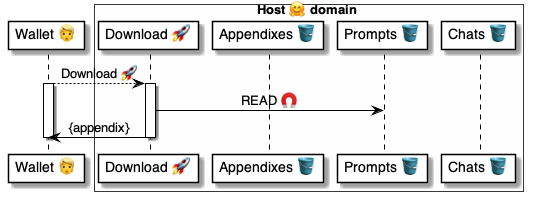
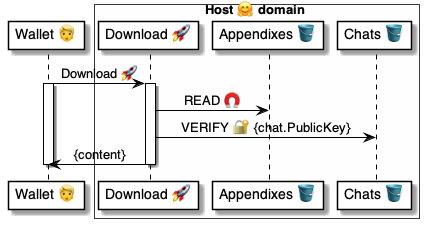
.

diff --git a/4 ⚙ Solution/37 Scripts 📃/📃 Commands ⌘/⌘ for async/REEL 🎣/🎣 REEL ⌘ cmd.md b/4 ⚙ Solution/37 Scripts 📃/📃 Commands ⌘/⌘ for async/REEL 🎣/🎣 REEL ⌘ cmd.md
@@ -7,12 +7,11 @@ then the last 3 will never be executed because REEL will exit the script.
 
 # 🎣 Talker `REEL` command
 
-> Part of [Script 📃](<../../../../35 💬 Chats/Scripts 📃/Script 📃.md>)
+> About
+* Part of [Script 📃](<../../../../35 💬 Chats/Scripts 📃/Script 📃.md>)
+* Used in [`Bound@Vault`](<../../../../41 🎭 Domain Roles/Vaults 🗄/🗄📨 Vault msgs/Bound 🤵🐌🗄/🗄 Bound 🐌 msg.md>)
 
-<!-- TODO: examples -->
-> Used in [`Bound@Vault`](<../../../../41 🎭 Domain Roles/Vaults 🗄/🗄📨 Vault msgs/Bound 🤵🐌🗄/🗄 Bound 🐌 msg.md>)
-
-<br/>
+## FAQ
 
 1. **What's the REEL command?**
 
@@ -47,7 +46,7 @@ then the last 3 will never be executed because REEL will exit the script.
 
     | Input| Purpose |
     |-|-
-    | `$hook`| [Hooks 🪣 item](<../../../../35 💬 Chats/Talkers 😃/😃🪣 Talker tables/😃 Talker.Hooks 🪣 table.md>) saved by the [Command ⌘](<../../../../35 💬 Chats/Scripts 📃/Command ⌘.md>) | -
+    | `$hook`| [Hooks 🪣 item](<../../../../35 💬 Chats/Talkers 😃/😃🪣 Talker tables/😃 Talker.Waits 🪣 table.md>) saved by the [Command ⌘](<../../../../35 💬 Chats/Scripts 📃/Command ⌘.md>) | -
     | `{response}` | [Command ⌘](<../../../../35 💬 Chats/Scripts 📃/Command ⌘.md>) output to a [Holder 🧠](<../../../../35 💬 Chats/Scripts 📃/Holder 🧠.md>)
 
     ---
@@ -79,16 +78,19 @@ then the last 3 will never be executed because REEL will exit the script.
 
 
     ```yaml
-    # Handler
-    - READ >> $hook:
-        Set: Talker.Hooks
+    📃 .REEL:
+    
+    # Read the wait
+    - READ >> $wait:
+        Set: Talker.Waits
         Key: $.Msg.Hook
-    - REEL|$hook
+
+    - REEL|$wait
     ```
 
     | [Command ⌘](<../../../../35 💬 Chats/Scripts 📃/Command ⌘.md>) | Purpose
     |-|-
-    | 🧲 [`READ`](<../../⌘ for datasets 🪣/READ 🧲/🧲 READ ⌘ cmd.md>) | Get the [`Hook` 🪣](<../../../../35 💬 Chats/Talkers 😃/😃🪣 Talker tables/😃 Talker.Hooks 🪣 table.md>) from [`Bind@Broker`](<../../../../20 🧑🦰 UI/Brokers 🤵/🤵📨 Broker msgs/Binds 🔗 Bind 🗄🐌🤵/🤵 Bind 🐌 msg.md>)  
+    | 🧲 [`READ`](<../../⌘ for datasets 🪣/READ 🧲/🧲 READ ⌘ cmd.md>) | Get the [`Hook` 🪣](<../../../../35 💬 Chats/Talkers 😃/😃🪣 Talker tables/😃 Talker.Waits 🪣 table.md>) from [`Bind@Broker`](<../../../../20 🧑🦰 UI/Brokers 🤵/🤵📨 Broker msgs/Binds 🔗 Bind 🗄🐌🤵/🤵 Bind 🐌 msg.md>)  
     
 
     ---

diff --git a/4 ⚙ Solution/41 🎭 Domain Roles/Consumers 💼/💼📨 Consumer msgs/Consume 🗄🐌💼/💼 Consume 📃 handler.md b/4 ⚙ Solution/41 🎭 Domain Roles/Consumers 💼/💼📨 Consumer msgs/Consume 🗄🐌💼/💼 Consume 📃 handler.md
@@ -43,7 +43,7 @@
 Uses||
 |-|-
 | [Commands ⌘](<../../../../35 💬 Chats/Scripts 📃/Command ⌘.md>) | [`ASSERT`](<../../../../37 Scripts 📃/📃 Commands ⌘/⌘ for holders 🧠/ASSERT 🚦/🚦 ASSERT ⌘ cmd.md>) [`READ`](<../../../../37 Scripts 📃/📃 Commands ⌘/⌘ for datasets 🪣/READ 🧲/🧲 READ ⌘ cmd.md>) [`SAVE`](<../../../../37 Scripts 📃/📃 Commands ⌘/⌘ for datasets 🪣/SAVE 💾/💾 SAVE ⌘ cmd.md>) [`VERIFY`](<../../../../37 Scripts 📃/📃 Commands ⌘/⌘ for messages 📨/VERIFY 🔐/🔐 VERIFY ⌘ cmd.md>)
-| [Datasets 🪣](<../../../../30 🧩 Data/Datasets 🪣/🪣 Dataset.md>) | [`TalkerHooks` 🪣 table](<../../../../35 💬 Chats/Talkers 😃/😃🪣 Talker tables/😃 Talker.Hooks 🪣 table.md>)
+| [Datasets 🪣](<../../../../30 🧩 Data/Datasets 🪣/🪣 Dataset.md>) | [`Consumer.Queries`](<../../💼🪣 Consumer tables/Queries 🗄 table/🪣 Queries/💼 Consumer.Queries 🪣 table.md>)
 | [{Functions} 🐍](<../../../../35 💬 Chats/Scripts 📃/Function 🐍.md>) | [`.IsSchema`](<../../../../37 Scripts 📃/📃 Functions 🐍/🐍 System 🔩 functions/IsSchema ⓕ.md>)
 | [Messages 📨](<../../../../30 🧩 Data/Messages 📨/📨 Message/📨 Message.md>) | [`Collect@Vault` 🚀 call](<../../../Vaults 🗄/🗄📨 Vault msgs/Collect 💼🚀🗄/🗄 Collect 🚀 call.md>)
 |

diff --git a/4 ⚙ Solution/41 🎭 Domain Roles/Consumers 💼/💼📨 Consumer msgs/Informed 🤵🐌💼/💼 Informed 🐌 msg.md b/4 ⚙ Solution/41 🎭 Domain Roles/Consumers 💼/💼📨 Consumer msgs/Informed 🤵🐌💼/💼 Informed 🐌 msg.md
@@ -20,7 +20,7 @@ Body:
 |Object|Property|Type|Description | Origin
 |-|-|-|-|-
 | Header    |`From`|text| [Broker 🤵](<../../../../20 🧑🦰 UI/Brokers 🤵/🤵 Broker helper/🤵 Broker 🤲 helper.md>) | [`Inform@`](<../../../../20 🧑🦰 UI/Brokers 🤵/🤵📨 Broker msgs/Share 💼 Inform 💼🐌🤵/🤵 Inform 🐌 msg.md>)
-|           |`To`|text| [Host 🤗](<../../../Hosts 🤗/🤗 Host role/🤗🎭 Host role.md>) | [`Emojied@`](<../../../Hosts 🤗/🤗📨 Host msgs/Emojied 🤵🐌🤗/🤗 Emojied 🐌 msg.md>)
+|           |`To`|text| [Host 🤗](<../../../Hosts 🤗/🤗 Host role/🤗🎭 Host role.md>) | [`Inform@Broker`](<../../../../20 🧑🦰 UI/Brokers 🤵/🤵📨 Broker msgs/Share 💼 Inform 💼🐌🤵/🤵 Inform 🐌 msg.md>)
 |           | `Subject`     | string    | `Informed@Host`
 | Body      | `Hook`      | uuid      | Hook | [`Inform@`](<../../../../20 🧑🦰 UI/Brokers 🤵/🤵📨 Broker msgs/Share 💼 Inform 💼🐌🤵/🤵 Inform 🐌 msg.md>)
 |

diff --git a/4 ⚙ Solution/41 🎭 Domain Roles/Hosts 🤗/🤗📨 Host msgs/Download 🧑🦰🚀🤗/🤗 Download 📃 handler.md b/4 ⚙ Solution/41 🎭 Domain Roles/Hosts 🤗/🤗📨 Host msgs/Download 🧑🦰🚀🤗/🤗 Download 📃 handler.md
@@ -1,0 +1,37 @@
+# 🤗 Download@Host 📃 handler
+
+> About
+* [Script 📃](<../../../../35 💬 Chats/Scripts 📃/Script 📃.md>) that implements the [`Download@Host` 🚀 call](<🤗 Download 🚀 call.md>)
+
+<br/>
+
+## Diagram
+
+![alt text](<🤗 Download ⚙ uml.png>)
+
+<br/>
+
+## Handler
+
+```yaml
+📃 Download@Host:
+
+# Assert the message
+- ASSERT|$.Msg:
+    AllOf: Appendix
+    UUIDs: Appendix
+
+# Read the appendix
+- READ >> $appendix:
+    Set: Host.Appendixes
+    Key: $.Msg.Appendix
+    Assert: # only if the chat is active
+        Chat.State: ACTIVE
+
+# Verify the signature
+- VERIFY|$.Msg:
+    Key: $.Chat.PublicKey
+
+# Return the appendix content
+- RETURN|$appendix:
+```

diff --git a/4 ⚙ Solution/20 🧑🦰 UI/Brokers 🤵/🤵🪣 Broker tables/Forms 📝 table/🪣 Forms/🤵 Broker.Forms 🪣 table.md b/4 ⚙ Solution/20 🧑🦰 UI/Brokers 🤵/🤵🪣 Broker tables/Forms 📝 table/🪣 Forms/🤵 Broker.Forms 🪣 table.md
@@ -46,8 +46,8 @@ The [Item 🛢 Assert](<../../../../../30 🧩 Data/Datasets 🪣/🪣🛢 Itemi
 
 ```yaml
 Assert: 
-    AllOf: Chat, Hook, Consumer, Form
-    UUIDs: Chat, Hook
+    AllOf: Chat, Wait, Consumer, Form
+    UUIDs: Chat, Wait
     Texts: Form, Consumer
     Consumer.IsDomain:
 ```
@@ -67,7 +67,7 @@ From [`Inform@Broker` 📃 handler](<../../../🤵📨 Broker msgs/Share 💼 In
 
 ```yaml
 Chat: <chat-uuid>           # Chat where the inform was created
-Hook: <hook-uuid>           # Consumer hook to notify
+Wait: <wait-uuid>           # Consumer wait to notify
 Name: AnyForm               # Form name being informed about
 Consumer: any-consumer.dom  # Consumer being informed
 ```

diff --git a/4 ⚙ Solution/35 💬 Chats/Talkers 😃/😃🪣 Talker tables/😃 Talker.Holders 🪣 table.md b/4 ⚙ Solution/35 💬 Chats/Talkers 😃/😃🪣 Talker tables/😃 Talker.Holders 🪣 table.md
@@ -18,7 +18,7 @@ Parents:
 
 | Relationship | Table | Contains
 |-|-|-
-| Parent | [`Hooks`](<😃 Talker.Hooks 🪣 table.md>)
+| Parent | [`Hooks`](<😃 Talker.Waits 🪣 table.md>)
 |
 
 ## Example
@@ -32,7 +32,7 @@ Value: {...}
 
 |Property|Type|Details|
 |-|-|-
-|`Hook`| uuid | [`TalkerHooks` 🪣 table](<😃 Talker.Hooks 🪣 table.md>) ID
+|`Hook`| uuid | [`TalkerHooks` 🪣 table](<😃 Talker.Waits 🪣 table.md>) ID
 |`Holder`|text| [Holder 🧠](<../../Scripts 📃/Holder 🧠.md>) name
 |`Schema`|text| [Schema Code 🧩](<../../../30 🧩 Data/Codes 🧩/🧩 Schema Code.md>)
 |`Value` | any | Content of the [Holder 🧠](<../../Scripts 📃/Holder 🧠.md>)

diff --git a/4 ⚙ Solution/35 💬 Chats/Talkers 😃/😃🪣 Talker tables/😃 Talker.Waits 🪣 table.md b/4 ⚙ Solution/35 💬 Chats/Talkers 😃/😃🪣 Talker tables/😃 Talker.Waits 🪣 table.md
@@ -1,7 +1,5 @@
 
-<!-- TODO: -->
-
-# 😃🪝 Talker.Hooks 🪣 table 
+# 😃🪝 Talker.Waits 🪣 table 
 
 > Used in [`Bound@Vault`](<../../../41 🎭 Domain Roles/Vaults 🗄/🗄📨 Vault msgs/Bound 🤵🐌🗄/🗄 Bound 🐌 msg.md>)
 

diff --git a/4 ⚙ Solution/20 🧑🦰 UI/Brokers 🤵/🤵🪣 Broker tables/Forms 📝 table/🪣🧱 1 Informed 🔔/🤵 OnFormInformed 🔔 handler.md b/4 ⚙ Solution/20 🧑🦰 UI/Brokers 🤵/🤵🪣 Broker tables/Forms 📝 table/🪣🧱 1 Informed 🔔/🤵 OnFormInformed 🔔 handler.md
@@ -24,7 +24,7 @@
         To: $Form.Consumer
         Subject: Informed@Consumer
     Body:
-        Hook: $Form.Hook.Require
+        Wait: $Form.Wait.Require
 ```
 
 |Uses ||
